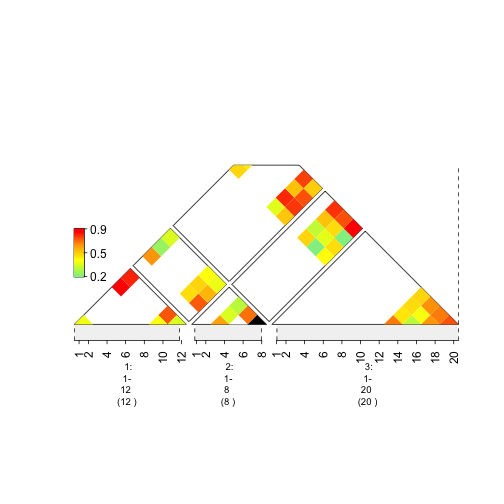
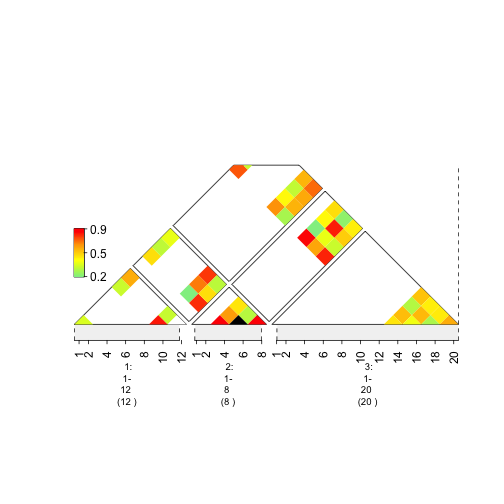
edit vignette

diff --git a/rtdocs/vignetteHeatGraph/vignetteHeatGraph.rst b/rtdocs/vignetteHeatGraph/vignetteHeatGraph.rst
@@ -97,11 +97,48 @@ Vignette On Creating Heat maps and Graphs
 
     plot of chunk plot1 
 
+hello
+
+
+.. sourcecode:: r
+    
+
+    ##if a **matrix** is used to create a graph, color and style of edges can't be specified
+    ##Instead of using a **matrix** use a **data frame** to specify those attributes. 
 
 
 
+**Add a Heat map to the plot!**
+
+.. sourcecode:: r
+    
+
+    ##in order to create a heatmap for each node in the matrix, color intensity needs to be specified.
+    ##to save time, a random N*N matrix filled with values from 1:100 is made.
+    heatMap = matrix(runif(length(gr)^2), nrow = 10, ncol = 10);
 
 
 
+.. sourcecode:: r
+    
+
+    plot(gTrack(gr, mdata = heatMap, stack.gap = 5))
+
+.. figure:: figure/plot-heatmap-1.png
+    :alt: plot of chunk plot-heatmap
+
+    plot of chunk plot-heatmap
+
+**Combining the heat map and graph onto the same plot.Possible by concatenation**
+
+.. sourcecode:: r
+    
+
+    plot(c(gTrack(gr , edges = graph, stack.gap = 5) , gTrack(gr , mdata = heatMap , stack.gap = 5)))
+
+.. figure:: figure/plot-HeatMap&Graph-1.png
+    :alt: plot of chunk plot-HeatMap&Graph
+
+    plot of chunk plot-HeatMap&Graph
 
 
